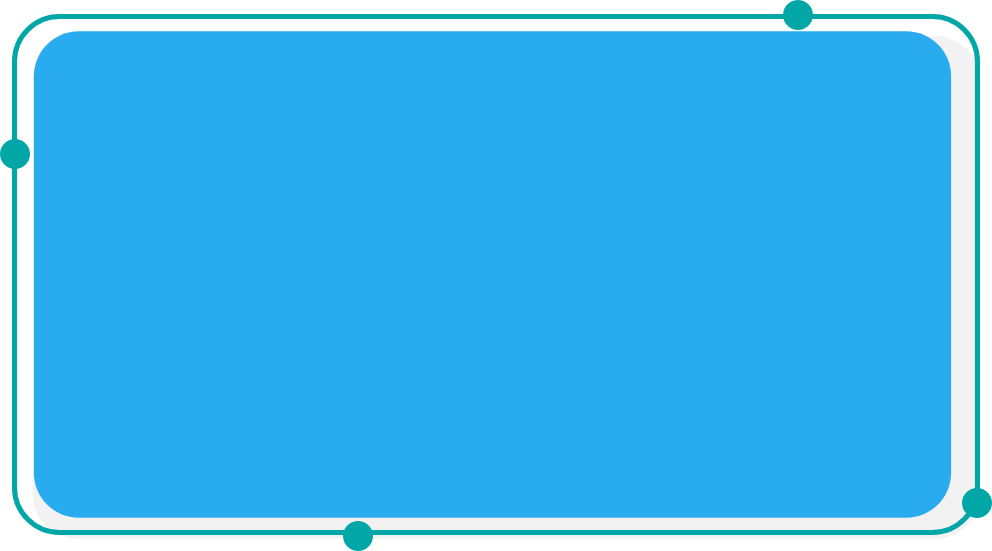
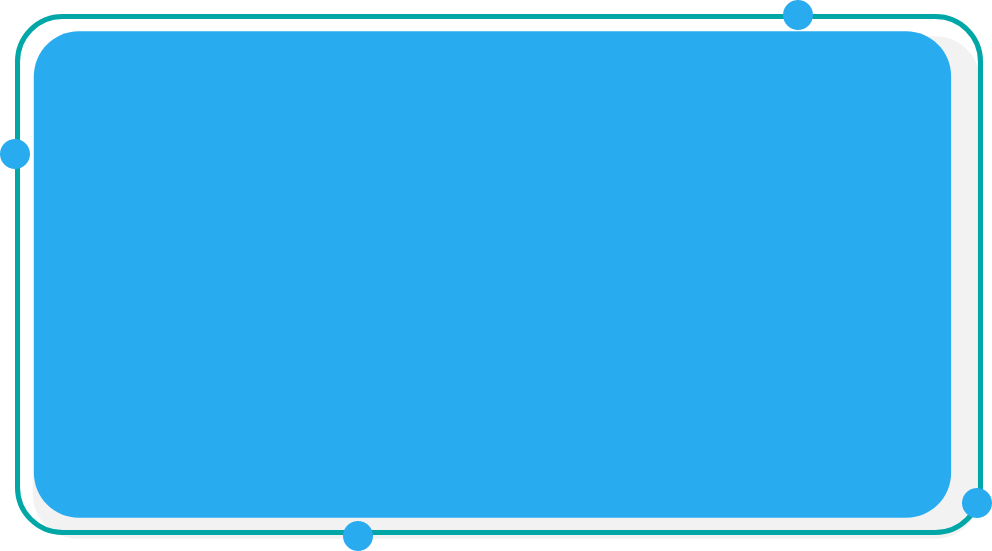
dark frame for subject

diff --git a/src/screens/subjects/subject/index.tsx b/src/screens/subjects/subject/index.tsx
@@ -32,9 +32,15 @@ export type SubjectNavigationProp = StackNavigationProp<
 const firstFrame = require("@Assets/images/subjectColors/first.png");
 const secondFrame = require("@Assets/images/subjectColors/second.png");
 const thirdFrame = require("@Assets/images/subjectColors/third.png");
-const sharesFrame = require("@Assets/images/subjectColors/shared.png");
+const sharedFrame = require("@Assets/images/subjectColors/shared.png");
 const telecomFrame = require("@Assets/images/subjectColors/telecom.png");
 const powerFrame = require("@Assets/images/subjectColors/power.png");
+const firstDarkFrame = require("@Assets/images/subjectColors/firstDark.png");
+const secondDarkFrame = require("@Assets/images/subjectColors/secondDark.png");
+const thirdDarkFrame = require("@Assets/images/subjectColors/thirdDark.png");
+const sharedDarkFrame = require("@Assets/images/subjectColors/sharedDark.png");
+const telecomDarkFrame = require("@Assets/images/subjectColors/telecomDark.png");
+const powerDarkFrame = require("@Assets/images/subjectColors/powerDark.png");
 
 const SubjectScreen = ({ navigation, route }: Props) => {
   const [subject, setSubject] = useState({} as Subject);
@@ -47,17 +53,29 @@ const SubjectScreen = ({ navigation, route }: Props) => {
     theme === "light" ? Colors.lightBackgroundSec : Colors.darkBackgroundSec;
 
   const subjectFrame =
-    subject.color === "#F79606"
+    subject.color === "#F79606" && theme === "light"
       ? firstFrame
-      : subject.color === "#F31313"
+      : subject.color === "#F79606" && theme === "dark"
+      ? firstDarkFrame
+      : subject.color === "#F31313" && theme === "light"
       ? secondFrame
-      : subject.color === "#0200CF"
+      : subject.color === "#F31313" && theme === "dark"
+      ? secondDarkFrame
+      : subject.color === "#0200CF" && theme === "light"
       ? thirdFrame
-      : subject.color === "#29abef"
-      ? sharesFrame
-      : subject.color === "#AF02AB"
+      : subject.color === "#0200CF" && theme === "dark"
+      ? thirdDarkFrame
+      : subject.color === "#29abef" && theme === "light"
+      ? sharedFrame
+      : subject.color === "#29abef" && theme === "dark"
+      ? sharedDarkFrame
+      : subject.color === "#AF02AB" && theme === "light"
       ? telecomFrame
-      : powerFrame;
+      : subject.color === "#AF02AB" && theme === "dark"
+      ? telecomDarkFrame
+      : subject.color === "#272727" && theme === "light"
+      ? powerFrame
+      : powerDarkFrame;
 
   const backgroundSubjectColor = subject.color;
   useEffect(() => {

diff --git a/src/screens/home/Favorite/index.tsx b/src/screens/home/Favorite/index.tsx
@@ -37,7 +37,7 @@ const FavoriteScreen = ({ navigation }: Props) => {
   }, []);
 
   return (
-    <ScrollView style={{ flex: 1 }}>
+    <ScrollView style={{ flex: 1, paddingTop: verticalScale(16) }}>
       {favorite.length === 0 && (
         <View
           style={{
